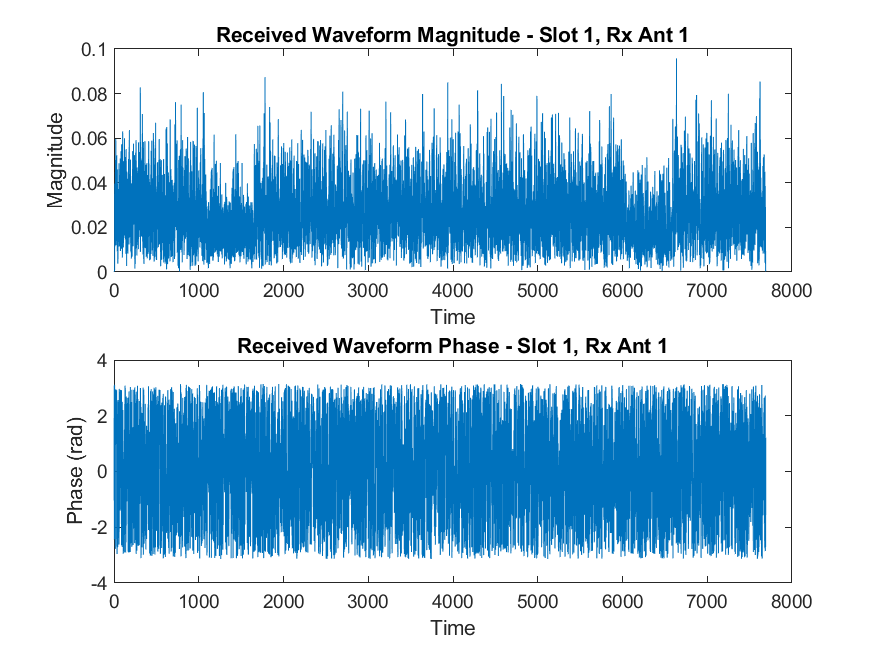
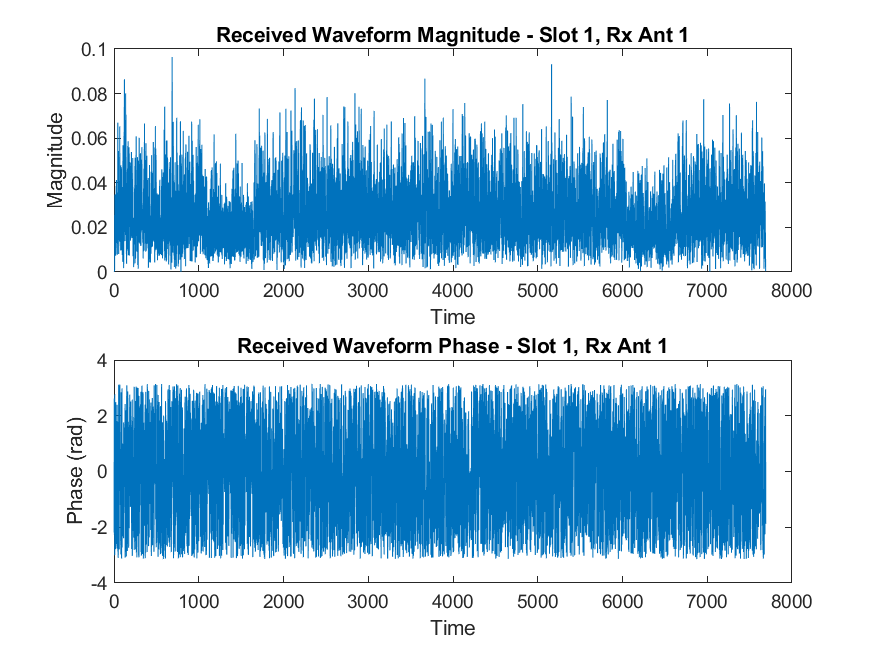
Add interference

diff --git a/07_NewRadioPUSCHThroughputExample/PuschChannel.m b/07_NewRadioPUSCHThroughputExample/PuschChannel.m
@@ -52,6 +52,7 @@ classdef PuschChannel < handle
 
             obj.simParameters = struct();
             obj.simParameters.SNR = 45;
+            obj.simParameters.SIR = 15;
             obj.simParameters.PerfectChannelEstimator = true;
             obj.simParameters.DisplaySimulationInformation = true;
 
@@ -215,7 +216,7 @@ classdef PuschChannel < handle
                     endIdx = min(startIdx + trBlkSize - 1, length(tx));
                     trx_size = endIdx - startIdx + 1;
                     trBlk = tx(startIdx:endIdx);
-                    fprintf("Transmitting %d bits\n", trx_size);
+                    fprintf("Transmitting %d bits from %d to %d\n", trx_size, startIdx, endIdx);
 
                     % Pad the transport block with zeros if needed
                     if trx_size < trBlkSize
@@ -307,6 +308,35 @@ classdef PuschChannel < handle
                 saveas(h, sprintf('rxwaveform/rxwaveform_slot_%d.png', nslot));
                 close(h);
 
+                % Add single tone noise
+                P_signal = mean(abs(rxWaveform).^2);
+                P_noise = P_signal / 10^(obj.simParameters.SIR/10);
+                toneFreq = -1e6; % Frequency of the tone in Hz
+                toneAmp = sqrt(P_noise);   % Amplitude of the tone
+                t = (0:length(rxWaveform)-1)' / obj.waveformInfo.SampleRate;
+                toneNoise = toneAmp * exp(1j*2*pi*toneFreq*t);
+                rxWaveform = rxWaveform + toneNoise;
+
+                % % Plot the tone noise in time domain
+                % h = figure('Visible', 'on');
+                % t = (0:length(toneNoise)-1)' / obj.waveformInfo.SampleRate;  % Time vector in seconds
+                
+                % subplot(2,1,1);
+                % plot(t, real(toneNoise));
+                % title(sprintf('Tone Noise Real Component - Slot %d', nslot));
+                % xlabel('Time (s)');
+                % ylabel('Amplitude');
+                % grid on;
+                
+                % subplot(2,1,2);
+                % plot(t, imag(toneNoise));
+                % title(sprintf('Tone Noise Imaginary Component - Slot %d', nslot));
+                % xlabel('Time (s)');
+                % ylabel('Amplitude');
+                % grid on;
+                % % saveas(h, sprintf('tonenoise/tonenoise_slot_%d.png', nslot));
+                % % close(h);
+
                 if (obj.simParameters.PerfectChannelEstimator)
                     % Perfect synchronization. Use information provided by the
                     % channel to find the strongest multipath component
@@ -353,11 +383,12 @@ classdef PuschChannel < handle
 
                 h = figure('Visible', 'off');
                 imagesc(abs(rxGrid(:,:,1)));
+                set(gca, 'YDir', 'normal');
                 colorbar;
                 title(sprintf('Received Resource Grid Magnitude - Slot %d', nslot));
                 xlabel('OFDM Symbols');
                 ylabel('Subcarriers');
-                
+
                 % Highlight DMRS symbols with border
                 hold on;
                 dmrsIndices = nrPUSCHDMRSIndices(carrier, pusch);
@@ -373,7 +404,7 @@ classdef PuschChannel < handle
                 % Zoom the whole image
                 set(gca, 'FontSize', 20); % Increase font size
                 set(gcf, 'Position', [100, 100, 1200, 800]); % Make figure larger
-
+                
                 saveas(h, sprintf('rxgrid/rxgrid_slot_%d.png', nslot));
                 close(h);
 
